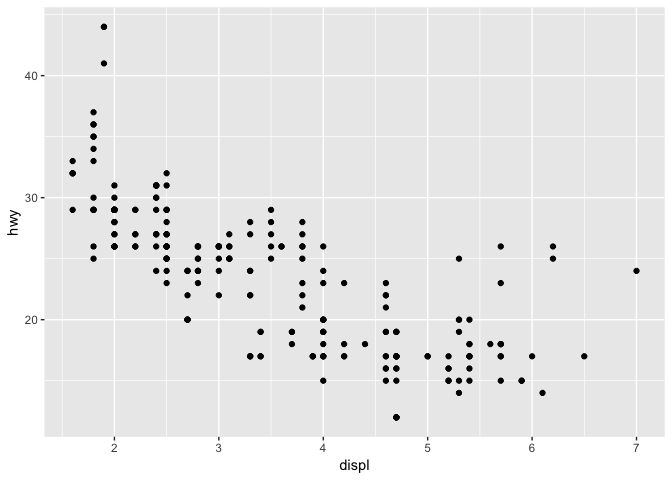
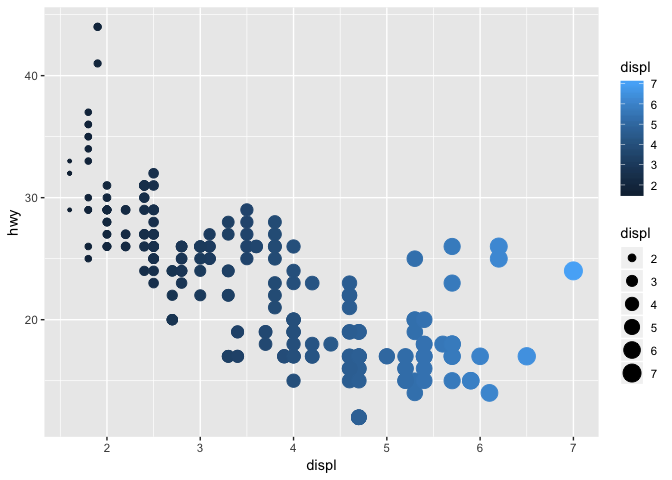
HM-1

diff --git a/index.md b/index.md
@@ -48,10 +48,8 @@ ggplot(data = mpg) +
 
 ``` r
 ggplot(data = mpg) +
-  geom_point(mapping = aes(x = displ, y = hwy, pl = displ))
+  geom_point(mapping = aes(x = displ, y = hwy, color = displ, size = displ))
 ```
-
-    ## Warning: Ignoring unknown aesthetics: pl
 
 ![](index_files/figure-markdown_github/unnamed-chunk-5-1.png)
 
@@ -67,10 +65,8 @@ ggplot(data = mpg) +
 1.  What happens if you map an aesthetic to something other than a variable name, like aes(colour = displ &lt; 5)?
 
 ``` r
-geom_point(mapping = aes(colour = displ < 5))
+ggplot(data = mpg) +
+  geom_point(mapping = aes(x = class, y = hwy, colour = displ < 2))
 ```
 
-    ## mapping: colour = ~displ < 5 
-    ## geom_point: na.rm = FALSE
-    ## stat_identity: na.rm = FALSE
-    ## position_identity
+![](index_files/figure-markdown_github/unnamed-chunk-7-1.png)
